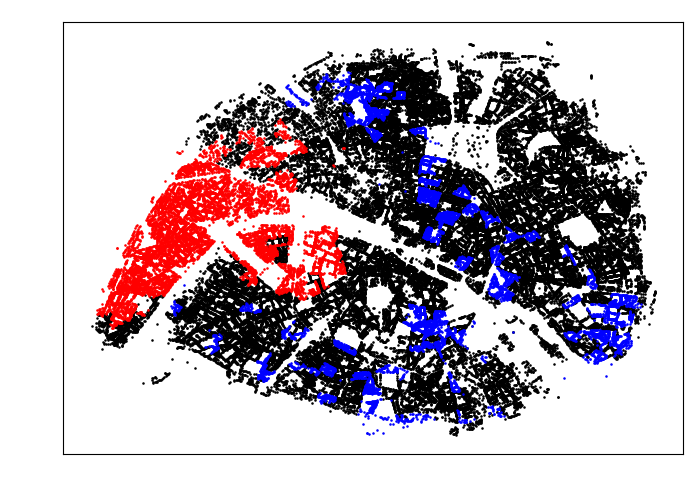
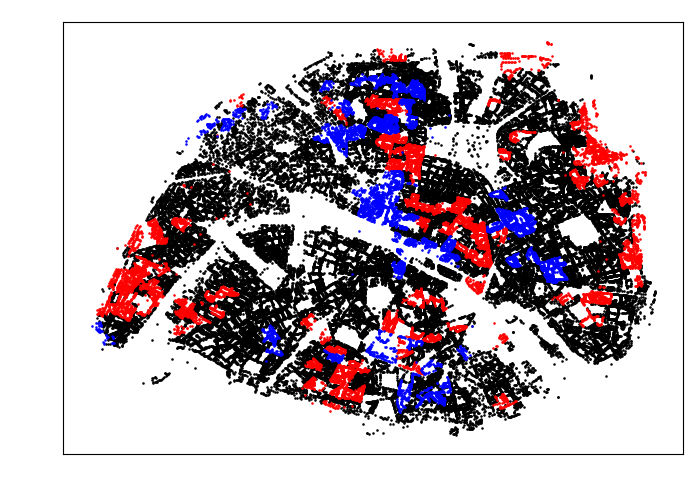
Modified some comparison between optimal transport indices and classical indices

diff --git a/optimal_transport/generate_fig_article.py b/optimal_transport/generate_fig_article.py
@@ -881,9 +881,26 @@ for filter_idx,geographical_filter in enumerate(commune):
 		for interesting_candidate_idx,interesting_candidate in enumerate(interesting_candidates[filter_idx]):
 			candidate_idx = candidate_list.index(interesting_candidate)
 
-			isolation_over_ot            = isolation_per_candidate[interesting_candidate_idx, :] / ot_dist_contribution_candidates[candidate_idx, :]
-			iso_upper_lim, iso_lower_lim = np.percentile(isolation_over_ot, comparison_percetiles[1]), np.percentile(isolation_over_ot, comparison_percetiles[0])
-			iso_is_upper, iso_is_lower   = isolation_over_ot > iso_upper_lim, isolation_over_ot < iso_lower_lim
+			ot_dist_dissimilarity_is_negative   = ot_dist_dissimilarity[candidate_idx, :] < 0
+			ot_dist_dissimilarity_abs           = np.abs(ot_dist_dissimilarity[candidate_idx, :])
+			ot_dist_dissimilarity_clipped_limit = max(1e-6, np.percentile(ot_dist_dissimilarity_abs, 0.5))
+			ot_dist_dissimilarity_clipped       = np.clip(ot_dist_dissimilarity_abs, ot_dist_dissimilarity_clipped_limit, np.inf)
+			ot_dist_dissimilarity_clipped[ot_dist_dissimilarity_is_negative] *= -1
+
+			isolation_over_ot_intercept  = np.interp(0, ot_dist_dissimilarity[candidate_idx, :], isolation_per_candidate[interesting_candidate_idx, :])
+			isolation_over_ot            = (isolation_per_candidate[interesting_candidate_idx, :] - isolation_over_ot_intercept) / ot_dist_dissimilarity_clipped
+			iso_lower_lim_pos            = np.percentile(isolation_over_ot[np.logical_and(isolation_over_ot > 0, ot_dist_dissimilarity[candidate_idx, :] >  50)], comparison_percetiles[0])
+			iso_upper_lim_pos            = np.percentile(isolation_over_ot[np.logical_and(isolation_over_ot > 0, ot_dist_dissimilarity[candidate_idx, :] >  50)], comparison_percetiles[1])
+			iso_lower_lim_neg            = np.percentile(isolation_over_ot[np.logical_and(isolation_over_ot > 0, ot_dist_dissimilarity[candidate_idx, :] < -50)], comparison_percetiles[0])
+			iso_upper_lim_neg            = np.percentile(isolation_over_ot[np.logical_and(isolation_over_ot > 0, ot_dist_dissimilarity[candidate_idx, :] < -50)], comparison_percetiles[1])
+			iso_is_upper                 = np.logical_or(
+				np.logical_and(isolation_over_ot > iso_upper_lim_pos, ot_dist_dissimilarity[candidate_idx, :] >  50),
+				np.logical_and(isolation_over_ot > iso_upper_lim_neg, ot_dist_dissimilarity[candidate_idx, :] < -50)
+			)
+			iso_is_lower                 = np.logical_or(
+				np.logical_and(np.logical_and(isolation_over_ot < iso_lower_lim_pos, iso_lower_lim_pos > 0), ot_dist_dissimilarity[candidate_idx, :] >  50),
+				np.logical_and(np.logical_and(isolation_over_ot < iso_lower_lim_neg, iso_lower_lim_pos > 0), ot_dist_dissimilarity[candidate_idx, :] < -50)
+			)
 			iso_is_middle                = np.logical_and(np.logical_not(iso_is_upper), np.logical_not(iso_is_lower))
 
 			""" ########################################
@@ -892,17 +909,17 @@ for filter_idx,geographical_filter in enumerate(commune):
 
 			fig, ax = plt.subplots(1, 1, figsize=(6 + 1, 6/map_ratio + 0.5 if every_fig_same_ratio else 6 + 1))
 
-			ax.plot(ot_dist_contribution_candidates[candidate_idx, :][iso_is_middle], isolation_per_candidate[interesting_candidate_idx, :][iso_is_middle], "+k", label=None)
-			ax.plot(ot_dist_contribution_candidates[candidate_idx, :][iso_is_upper],  isolation_per_candidate[interesting_candidate_idx, :][iso_is_upper],  "+b", label=f"Upper { 100 - comparison_percetiles[1] }% of ratio of indeces")
-			ax.plot(ot_dist_contribution_candidates[candidate_idx, :][iso_is_lower],  isolation_per_candidate[interesting_candidate_idx, :][iso_is_lower],  "+r", label=f"Lower { comparison_percetiles[0] }% of ratio of indeces")
+			ax.plot(ot_dist_dissimilarity[candidate_idx, :][iso_is_middle], isolation_per_candidate[interesting_candidate_idx, :][iso_is_middle], "+k", label=None)
+			ax.plot(ot_dist_dissimilarity[candidate_idx, :][iso_is_upper],  isolation_per_candidate[interesting_candidate_idx, :][iso_is_upper],  "+b", label=f"Upper { 100 - comparison_percetiles[1] }% of ratio of indeces")
+			ax.plot(ot_dist_dissimilarity[candidate_idx, :][iso_is_lower],  isolation_per_candidate[interesting_candidate_idx, :][iso_is_lower],  "+r", label=f"Lower { comparison_percetiles[0] }% of ratio of indeces")
 
-			ax.set_xlim(np.percentile(ot_dist_contribution_candidates[candidate_idx, :], [1, 99]) * 1.1)
-			ax.set_ylim(np.percentile(isolation_per_candidate[interesting_candidate_idx, :],         [1, 99]) * 1.1)
+			ax.set_xlim(np.percentile(ot_dist_dissimilarity[candidate_idx, :],               [1, 99]) * 1.1)
+			ax.set_ylim(np.percentile(isolation_per_candidate[interesting_candidate_idx, :], [1, 99]) * 1.1)
 
 			if show_title_and_legend:
 				ax.set_title(f"Comparison of our dissimilarity\nindex to the vote excess/deficit\nfor { interesting_candidate }")
-			ax.set_xlabel("Our optimal-transport based dissimilarity")
-			ax.set_ylabel("vote excess/deficit")
+			ax.set_xlabel("Our optimal-transport based signed dissimilarity")
+			ax.set_ylabel("Isolation index")
 
 			fig.tight_layout(pad=1.0)
 			if show_title_and_legend:
